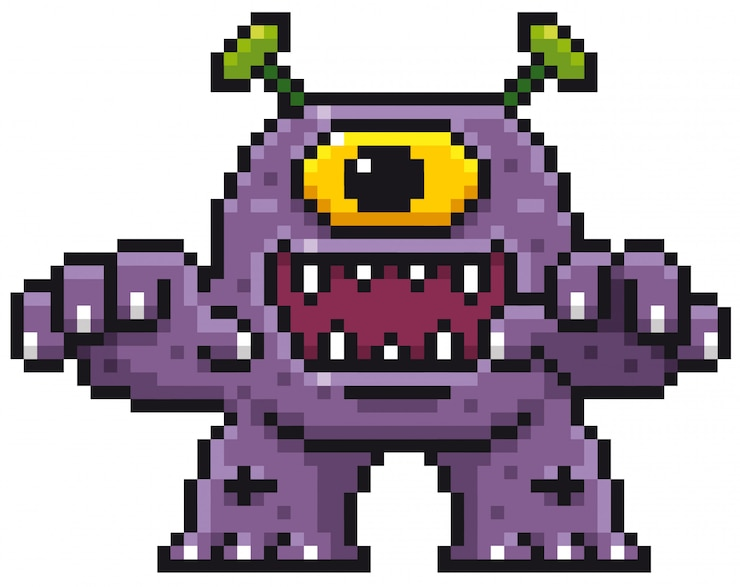
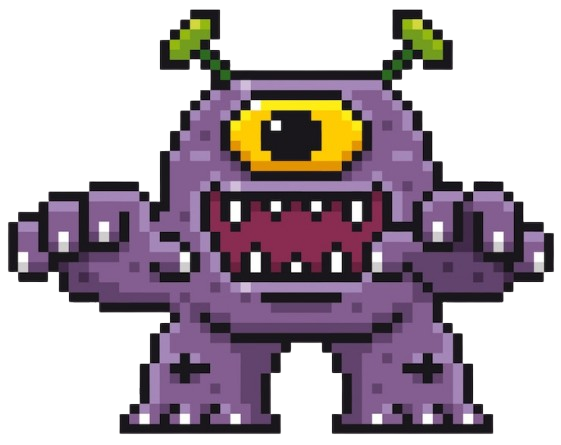
v0.2
multi-enemy type
dodge fix
spawn chance

diff --git a/src/classes/TerrainManager.js b/src/classes/TerrainManager.js
@@ -10,10 +10,10 @@ export default class TerrainManager {
 
         // Chaos Factor Settings
         this.chaosFactorSettings = {
-            ground: { chaosLowerBound: 1, chaosUpperBound: 2.5},
-            low: { chaosLowerBound: 0.75, chaosUpperBound: 2.75 },
-            medium: { chaosLowerBound: 0.50, chaosUpperBound: 3 },
-            high: { chaosLowerBound: 0.25, chaosUpperBound: 3.25 }
+            ground: { chaosLowerBound: 0.975, chaosUpperBound: 1.025},
+            low: { chaosLowerBound: 0.95, chaosUpperBound: 1.05 },
+            medium: { chaosLowerBound: 0.90, chaosUpperBound: 1.075 },
+            high: { chaosLowerBound: 0.85, chaosUpperBound: 1.10 }
         };
 
 
@@ -126,7 +126,7 @@ export default class TerrainManager {
         const terrainElevation = this.elevationSettings[elevation].baseHeight
         const terrainDistance = this.distanceSettings[distance].baseWidth
         
-        terrain.displayHeight = terrainElevation;
+        terrain.displayHeight = terrainElevation * Phaser.Math.FloatBetween(chaosLowerBound, chaosUpperBound) 
         terrain.displayWidth = terrainDistance * Phaser.Math.FloatBetween(chaosLowerBound, chaosUpperBound) ;
 
         terrain.isSequenceEnd = false
@@ -137,11 +137,16 @@ export default class TerrainManager {
         // Populate Terrain
         const terrainBounds = terrain.getBounds()
         // Obstacles
+        if(Phaser.Math.FloatBetween(0,100) < 75){
         this.stageManager.obstacleManager.addObstacle(terrainBounds.x + (Phaser.Math.FloatBetween(0.1,0.9) * terrainBounds.width), terrainBounds.top, elevation)
+        }
         // Loot 
         this.stageManager.lootManager.addLoot(terrainBounds.x + (Phaser.Math.FloatBetween(0.1,0.9) * terrainBounds.width), terrainBounds.top, elevation)
         // Enemies
-        this.stageManager.enemyManager.addEnemy(terrainBounds.x + (Phaser.Math.FloatBetween(0.1,0.9) * terrainBounds.width), terrainBounds.top, elevation)
+        if(Phaser.Math.FloatBetween(0,100) < 50){
+            this.stageManager.enemyManager.addEnemy(terrainBounds.x + (Phaser.Math.FloatBetween(0.1,0.9) * terrainBounds.width), terrainBounds.top, elevation)
+        }
+        
         return terrain
 
 

diff --git a/src/classes/Enemies.js b/src/classes/Enemies.js
@@ -21,7 +21,7 @@ export default class EnemyManager {
         enemy.elevation = elevation; // Store platform type on the platform object for easy identification
 
         enemy.setDepth(5)
-                .setScale(0.1)
+                .setScale(0.15)
                 .setSize(enemy.width, enemy.height * 0.8)
                 .setTint();
 
@@ -31,6 +31,22 @@ export default class EnemyManager {
         // loot.passThrough = options.passThrough || false;
         // loot.slowDownEffect = options.slowDownEffect || false;
         // loot.stopEffect = options.stopEffect || false;
+        
+
+        if(Phaser.Math.Between(1, 10) == 1){
+            enemy.type = 'elite'
+            enemy.setTint()
+            enemy.setTexture('enemy2')
+            enemy.setScale(0.4)
+        } else if(Phaser.Math.Between(1, 5) == 1){
+            enemy.type = 'chaser'
+            enemy.setTint(0x0000FF)
+        } else if(Phaser.Math.Between(1, 3) == 1){
+            enemy.type = 'jumper'
+            enemy.setTint(0x00FF00)
+        }
+
+        enemy.jumpPower = Phaser.Math.Between(500, 1250)
    
 
         console.log("Enemy Created: " + enemy.id)
@@ -66,8 +82,17 @@ export default class EnemyManager {
                     console.log(`Destroying ${enemy.elevation} enemy`);
                 } else {
                     
-                    if(enemy.body.touching.down){
-                        enemy.setVelocityY(-750)
+                    if(enemy.body.touching.down && enemy.type == 'jumper'){
+                        enemy.setVelocityY(-enemy.jumpPower)
+                    }
+
+                    if(enemy.type == 'chaser'){
+                    if (enemy.x < this.stageManager.avatarManager.sprite.x - 150){
+                        enemy.flipX = true
+                        enemy.setVelocityX(550 + (this.stageManager.addedSpeed * 1.5))
+                    } else if (enemy.x > this.stageManager.avatarManager.sprite.x + 150 && enemy.x < this.stageManager.avatarManager.sprite.x + 500){
+                        enemy.setVelocityX(-550 - (this.stageManager.addedSpeed * 0.5))
+                    }
                     }
 
                 }

diff --git a/src/classes/InputManager.js b/src/classes/InputManager.js
@@ -39,14 +39,30 @@ export default class InputManager {
             mode: this.modeKey && Phaser.Input.Keyboard.JustDown(this.modeKey)
         };
 
-        return controls;
+        
 
 
         // Handle gamepad controls if connected
         if (this.gamepad) {
-            if (this.gamepad.A) {
-                // Handle attack
-            }
+            // Joystick for movement
+            const leftStickX = this.gamepad.axes[0] ? this.gamepad.axes[0].getValue() : 0;
+            const leftStickY = this.gamepad.axes[1] ? this.gamepad.axes[1].getValue() : 0;
+
+            controls.left = leftStickX < -0.5; // Tilt joystick left
+            controls.right = leftStickX > 0.5; // Tilt joystick right
+            controls.up = leftStickY < -0.75; // Tilt joystick up
+            controls.down = leftStickY > 0.75; // Tilt joystick down
+
+            // Buttons for actions
+            controls.jump = this.gamepad.buttons[0] && this.gamepad.buttons[0].pressed; // A button
+            controls.action1 = this.gamepad.buttons[5] && this.gamepad.buttons[5].pressed; // Right bumper
+            controls.action2 = this.gamepad.buttons[4] && this.gamepad.buttons[4].pressed; // Left bumper
+            controls.special1 = this.gamepad.buttons[7] && this.gamepad.buttons[7].pressed; // Right trigger
+            controls.special2 = this.gamepad.buttons[6] && this.gamepad.buttons[6].pressed; // Left trigger
+
+            
         }
+
+        return controls;
     }
 }

diff --git a/src/classes/AvatarManager.js b/src/classes/AvatarManager.js
@@ -920,16 +920,16 @@ export default class AvatarManager extends Phaser.Events.EventEmitter {
             }
     
     
-                if (controls.special2){
+                if (controls.special2 && !this.isDoingAction){
                     this.special2();
                 } else
-                if (controls.special1){
+                if (controls.special1 && !this.isDoingAction){
                     this.special1();
                 } else
-                if (controls.action2){
+                if (controls.action2 && !this.isDoingAction){
                     this.action2();
                 } else
-                if (controls.action1){
+                if (controls.action1 && !this.isDoingAction){
                     this.action1()
                 }
             } else {

diff --git a/src/preload.js b/src/preload.js
@@ -3,6 +3,7 @@ const preload = (scene) => {
     scene.load.image('titleScreen', 'assets/images/titleScreens/titleScreen_01.png');
     scene.load.image('gold', 'assets/images/gold.png');
     scene.load.image('enemy', 'assets/images/enemy.png');
+    scene.load.image('enemy2', 'assets/images/enemy2.png');
     scene.load.image('dTerrainPlaceholder', 'assets/images/dTerrainPlaceholder.png');
     scene.load.image('ground_common', 'assets/images/ground_common.png');
     scene.load.image('ground_uncommon', 'assets/images/ground_uncommon.png');
